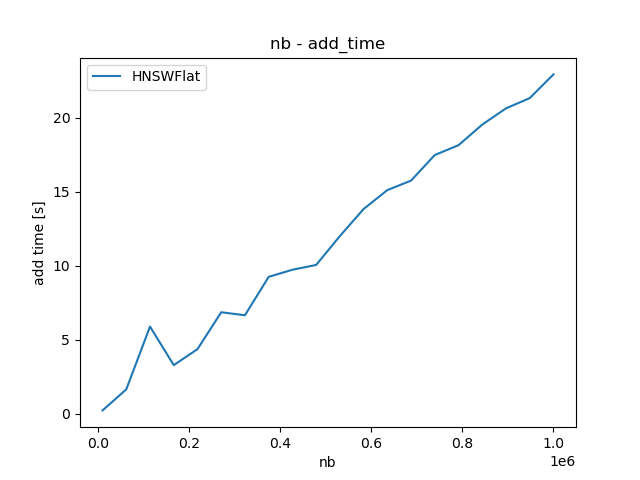
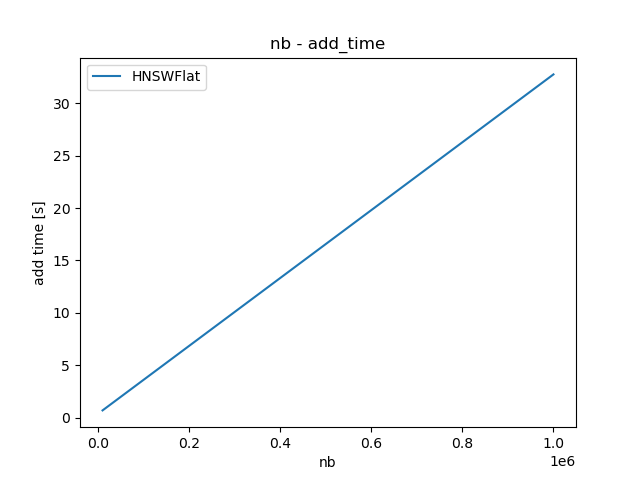
HNSWのQPS-Recallのグラフがかけるようになった。

diff --git a/compare.py b/compare.py
@@ -44,6 +44,62 @@ def get_recall(I, gt, n_recall):
   recall /= nq
   return recall
 
+def plot_qps_hnsw():
+  k = 4
+  
+  nb = 10**6
+  nq = 1000
+  d = 64
+  n_trial = 5
+  n_recall = 1
+  efs = [2**i for i in range(2, 11)]
+  qps_list = [[] for i in range(n_trial)]
+  recall_list = [[] for i in range(n_trial)]
+  
+
+  for n_try in range(n_trial):
+    print(f"----------iteration {n_try} / {n_trial} -----------")
+    xb, xq, d = make_data(nb, nq, d)
+    gt = get_gt(xb=xb, xq=xq, d=d, k=k)
+
+    for ef in efs:
+      print(f"ef = {ef}")
+
+      model = HNSWFlat(k = k, m = ef)
+      # train
+      _, _ = model.train(xb, d)
+      print("train done")
+
+      # search
+      _, I, time_search = model.search(xq)
+      print("search done")
+
+      # calculate QPS, Recall
+      qps_list[n_try].append(nq / time_search)
+      recall_list[n_try].append(get_recall(I=I, gt=gt, n_recall=n_recall))
+
+  recall_list = np.mean(np.array(recall_list), axis=(0))
+  qps_list = np.mean(np.array(qps_list), axis=(0))
+  print(f"recall_list \n {recall_list}")
+  print(f"qps_list \n {qps_list}")
+
+  #描画
+  name_models = "HNSW"
+
+  plt.figure()
+  
+  plt.plot(recall_list, qps_list, label=model.name)
+  plt.xlabel(f"Recall@{n_recall}")
+  plt.ylabel("Query Per Second [s]")
+  plt.yscale("log")
+  plt.title("recall - pqs")
+
+  for i, ef in enumerate(efs):
+        plt.annotate(f"ef = {ef}", (recall_list[i], qps_list[i]), textcoords="offset points", xytext=(5,10), ha='center')
+
+  plt.legend()
+  plt.savefig(f"data/fig/compare_recall_qps_{name_models}.png")
+  plt.show()
 
 
 def main():
@@ -54,10 +110,10 @@ def main():
   flatL2pca = FlatL2PCA(k = k, d_new = 8)
   ivf = IVF(k = k, nlist = 100, nprobe = 3)
   ivfpq = IVFPQ(k = k, nlist = 100, m = 8)
-  hnswFlat = HNSWFlat(k = k, m = 20)
-  bi_hnsw = BinaryHNSW(k = k, m = 20)
-  # models = [flatL2, flatIP, flatL2pca, ivf, ivfpq, hnswFlat, bi_hnsw]
-  models = [hnswFlat]
+  hnswFlat = HNSWFlat(k = k, m = 32)
+  bi_hnsw = BinaryHNSW(k = k, m = 32)
+  models = [flatL2, flatIP, flatL2pca, ivf, ivfpq, hnswFlat, bi_hnsw]
+  # models = [hnswFlat]
   
   # nb_list = np.logspace(4, 6, 10).astype("int")
   nb_list = np.linspace(10**4, 10**6, 20).astype("int")
@@ -68,8 +124,6 @@ def main():
   time_train_list = [[[] for i in range(len(models))] for i in range(n_trial)]
   time_add_list = [[[] for i in range(len(models))] for i in range(n_trial)]
   time_search_list = [[[] for i in range(len(models))] for i in range(n_trial)]
-  qps_list = [[[] for i in range(len(models))] for i in range(n_trial)]
-  recall_list = [[[] for i in range(len(models))] for i in range(n_trial)]
 
   for n_try in range(n_trial):
     print(f"----------iteration {n_try} / {n_trial} -----------")
@@ -78,18 +132,14 @@ def main():
         for d in d_list:
           print(f"process {idx_nb} / {len(nb_list)}")
           xb, xq, d = make_data(nb, nq, d)
-          gt = get_gt(xb=xb, xq=xq, d=d, k=k)
           for idx, model in enumerate(models):
             # train
             time_train, time_add = model.train(xb, d)
             time_train_list[n_try][idx].append(time_train)
             time_add_list[n_try][idx].append(time_add)
             # search
-            _, I, time_search = model.search(xq)
+            _, _, time_search = model.search(xq)
             time_search_list[n_try][idx].append(time_search)
-            # calculate QPS, Recall
-            qps_list[n_try][idx].append(nq / time_search)
-            recall_list[n_try][idx].append(get_recall(I=I, gt=gt, n_recall=n_recall))
 
 
             
@@ -98,8 +148,6 @@ def main():
   time_train_list = np.mean(np.array(time_train_list), axis=(0))
   time_add_list = np.mean(np.array(time_add_list), axis=(0))
   time_search_list = np.mean(np.array(time_search_list), axis=(0))
-  recall_list = np.mean(np.array(recall_list), axis=(0))
-  qps_list = np.mean(np.array(qps_list), axis=(0))
   name_models = '_'.join(model.name for model in models)
   plt.figure()
   for idx, model in enumerate(models):
@@ -131,19 +179,7 @@ def main():
   plt.savefig(f"data/fig/compare_nb_search_time_{name_models}.png")
   plt.show()
 
-  plt.figure()
-  for idx, model in enumerate(models):
-    plt.plot(recall_list[idx], qps_list[idx], label=model.name)
-  plt.xlabel(f"Recall@{n_recall}")
-  plt.ylabel("Query Per Second [s]")
-  plt.yscale("log")
-  plt.title("recall - pqs")
-  plt.legend()
-  plt.savefig(f"data/fig/compare_recall_qps_{name_models}.png")
-  plt.show()
-
-  
-
 
 if __name__=="__main__":
   main()
+  plot_qps_hnsw()
